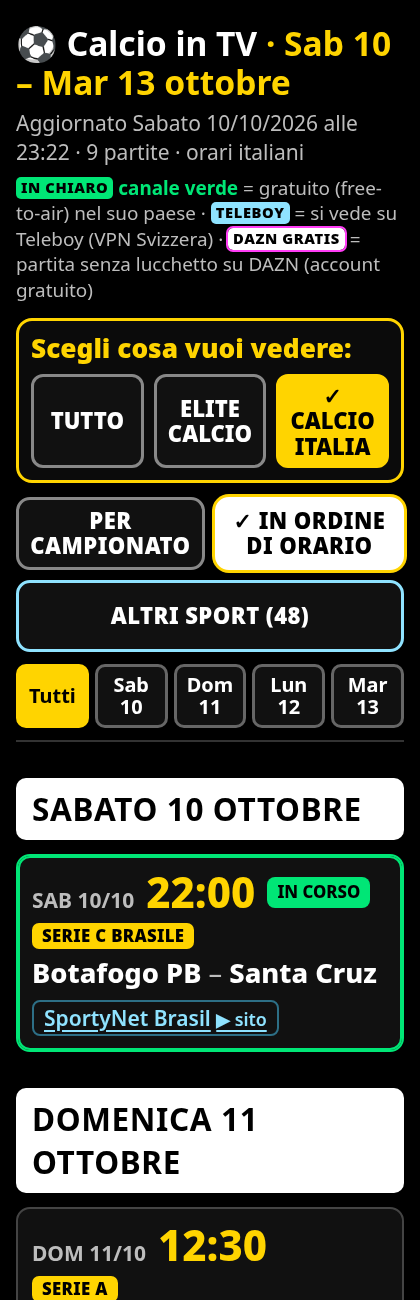
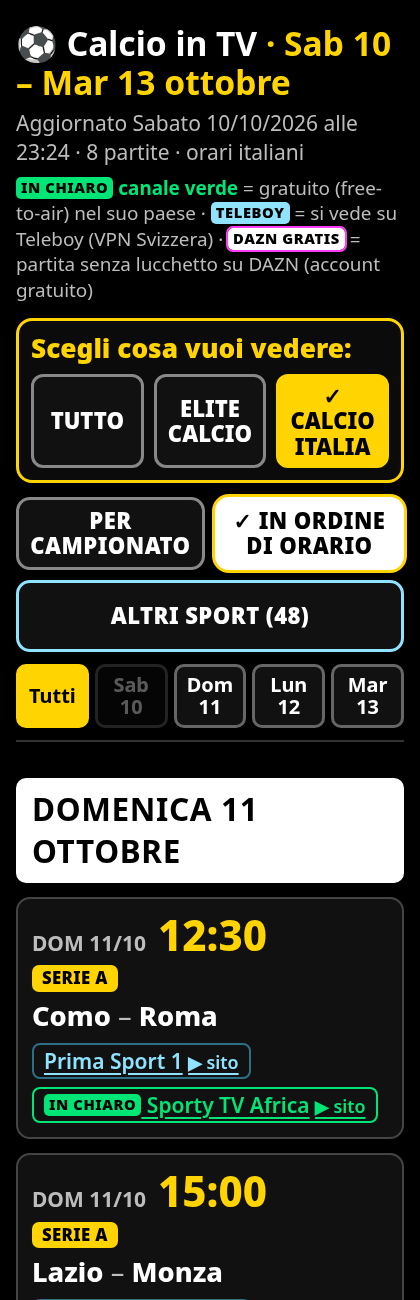
CALCIO ITALIA: Serie C Brasile non è Serie C

diff --git a/tests/test_logica.py b/tests/test_logica.py
@@ -715,6 +715,7 @@ def test_categorie():
     assert "elite" in cal(E("Barcelona", "X"), "COPA DEL REY") and "elite" in cal(E("Bayern", "X"), "DFB-POKAL")
     assert cal(E("Ternana", "Gubbio"), "SERIE C – GIRONE B") == {"italia"}
     assert cal(E("Roma", "Lazio"), "ROMANIA LIGA I") == set()
+    assert cal(E("Botafogo PB", "Santa Cruz"), "SERIE C BRASILE") == set() and cal(E("Ternana", "Gubbio"), "SERIE C") == {"italia"}
     A = lambda sp, t: alt({"sport": sp, "titolo": t})
     for sp, t in [("Formula 1", "Gran Premio di Singapore"), ("Motomondiale", "MotoGP: gara"), ("Motori", "WEC 6 Ore del Fuji"),
                   ("Tennis", "ATP Shanghai"), ("Basket", "EuroLeague: Olimpia Milano - Real Madrid"),
